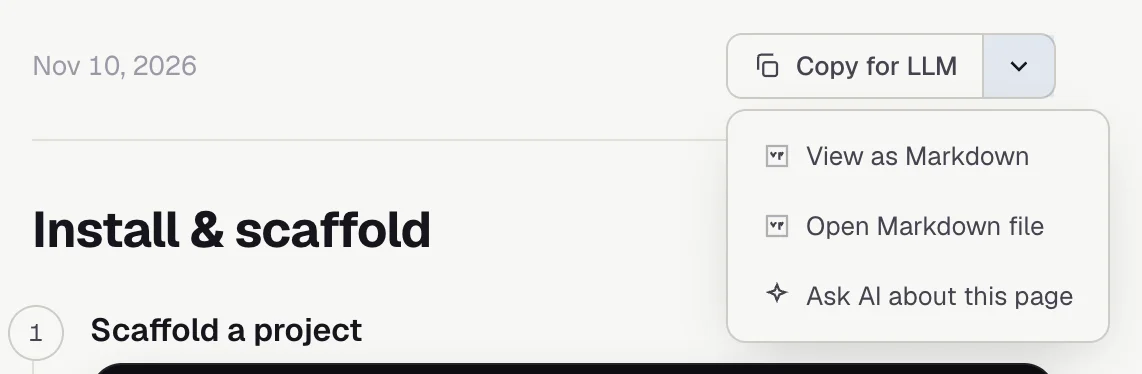
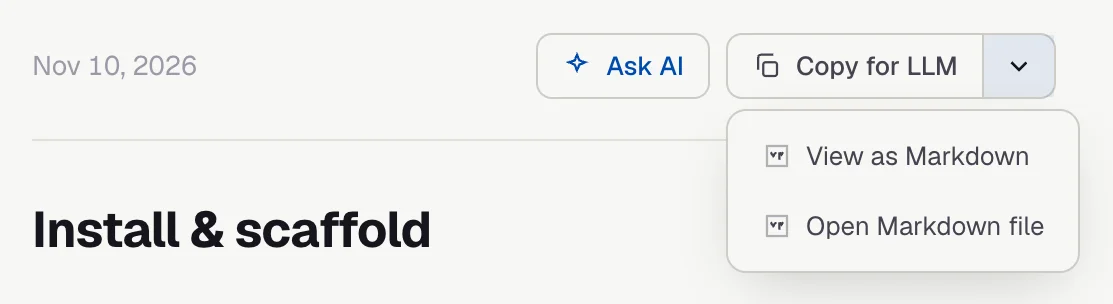
feat(docs): Ask AI is its own button in the menu page-actions style
With layout.pageActions: "menu", Ask AI sits beside Copy for LLM instead of
in its dropdown, which now holds only View as Markdown and Open Markdown file.
Without Ask AI set up, the row is unchanged. The menu screenshots and the
Page actions docs are updated.

diff --git a/components/docs/doc-actions.tsx b/components/docs/doc-actions.tsx
@@ -4,6 +4,7 @@ import { useEffect, useRef, useState } from "react";
 import { usePathname } from "next/navigation";
 import { pageToMarkdown as renderPage } from "@/lib/page-markdown";
 import { openAskPanel } from "./ai/ask-dock";
+import { menuLayout, type PageAction } from "./page-actions";
 
 /* ──────────────────────────────────────────────────────────────────────────
  * Docs page AI/affordance row (the design's .doc-ai): rendered below the lede.
@@ -17,7 +18,8 @@ import { openAskPanel } from "./ai/ask-dock";
  * page content (no fabricated text). The menu also links the .md file.
  *
  * `layout.pageActions: "menu"` shows them as one "Copy for LLM" button with
- * the others in a dropdown, beside the last-updated date.
+ * the Markdown ones in a dropdown, beside the last-updated date, and Ask AI as
+ * its own button.
  * ────────────────────────────────────────────────────────────────────────── */
 
 const SparkIcon = (
@@ -109,18 +111,26 @@ export function DocAiRow({
   };
 
   if (variant === "menu") {
+    const layout = menuLayout(aiEnabled);
+    const actions: Partial<Record<PageAction, MenuItem>> = {
+      view: { label: "View as Markdown", icon: MarkdownIcon, run: () => openMarkdownModal(markdown()) },
+      open: { label: "Open Markdown file", icon: MarkdownIcon, run: () => window.open(mdUrl, "_blank", "noopener") },
+    };
     return (
       <div className="doc-ai doc-ai--menu" onPointerEnter={prefetch} onFocus={prefetch}>
         <span className="date">{lastUpdated}</span>
-        <ActionMenu
-          copied={copied}
-          onCopy={copyForLlm}
-          items={[
-            { label: "View as Markdown", icon: MarkdownIcon, run: () => openMarkdownModal(markdown()) },
-            { label: "Open Markdown file", icon: MarkdownIcon, run: () => window.open(mdUrl, "_blank", "noopener") },
-            ...(aiEnabled ? [{ label: "Ask AI about this page", icon: SparkIcon, run: () => openAskPanel(title) }] : []),
-          ]}
-        />
+        <div className="doc-ai-actions">
+          {layout.buttons.includes("ask") && (
+            <button type="button" className="doc-ai-ask" aria-label="Ask AI about this page" onClick={() => openAskPanel(title)}>
+              {SparkIcon} Ask AI
+            </button>
+          )}
+          <ActionMenu
+            copied={copied}
+            onCopy={copyForLlm}
+            items={layout.menu.flatMap((a) => actions[a] ?? [])}
+          />
+        </div>
       </div>
     );
   }

diff --git a/app/docs.css b/app/docs.css
@@ -299,10 +299,15 @@
 .docs-shell .doc-ai .copied { color: var(--ok); }
 .docs-shell .doc-ai .ico { width: 15px; height: 15px; }
 
-/* layout.pageActions: "menu": date on the left, a split "Copy for LLM" button
-   on the right. */
+/* layout.pageActions: "menu": date on the left; on the right, Ask AI (when
+   it's set up) and a split "Copy for LLM" button. */
 .docs-shell .doc-ai--menu { justify-content: space-between; border-top: 0; padding-top: 0; margin-top: 24px; padding-bottom: 20px; border-bottom: 1px solid var(--line); }
 .docs-shell .doc-ai--menu .date { font-size: 13.5px; color: var(--ink-4); }
+.docs-shell .doc-ai-actions { display: flex; align-items: center; gap: 8px; margin-left: auto; }
+.docs-shell .doc-ai-actions > .doc-ai-ask {
+  padding: 7px 12px; border: 1px solid var(--line-2); border-radius: var(--btn-radius, 8px);
+  background: var(--panel); color: var(--accent-ink); font-weight: 500;
+}
 .docs-shell .doc-ai-split {
   position: relative; display: inline-flex; border: 1px solid var(--line-2); border-radius: var(--btn-radius, 8px);
   background: var(--panel);

diff --git a/test/doc-actions.test.ts b/test/doc-actions.test.ts
@@ -1,0 +1,17 @@
+import { test } from "node:test";
+import assert from "node:assert/strict";
+import { menuLayout } from "../components/docs/page-actions";
+
+// The page actions' "menu" style: Ask AI is a button of its own, not in the menu.
+
+test("with Ask AI set up, Ask AI is a button before Copy for LLM", () => {
+  assert.deepEqual(menuLayout(true).buttons, ["ask", "copy"]);
+});
+
+test("without Ask AI, Copy for LLM is the only button", () => {
+  assert.deepEqual(menuLayout(false).buttons, ["copy"]);
+});
+
+test("the menu holds only the Markdown actions", () => {
+  for (const ai of [true, false]) assert.deepEqual(menuLayout(ai).menu, ["view", "open"]);
+});

diff --git a/components/docs/page-actions.ts b/components/docs/page-actions.ts
@@ -1,0 +1,11 @@
+/* Which page actions the "menu" style (layout.pageActions: "menu") shows as
+ * buttons and which in its dropdown. Kept apart from doc-actions.tsx so it's
+ * unit-tested. */
+
+export type PageAction = "ask" | "copy" | "view" | "open";
+
+/** Ask AI (when it's set up) is a button of its own beside "Copy for LLM";
+ *  the dropdown holds only the Markdown actions. */
+export function menuLayout(aiEnabled: boolean): { buttons: PageAction[]; menu: PageAction[] } {
+  return { buttons: aiEnabled ? ["ask", "copy"] : ["copy"], menu: ["view", "open"] };
+}

diff --git a/CHANGELOG.md b/CHANGELOG.md
@@ -25,6 +25,9 @@ All notable changes to `@markline/markline` and `@markline/create`.
   largest resource page drops from 13.2 MB to 4.4 MB. Docs pages list API
   resources, not every operation, in their navigation data, unless the API tab
   also holds docs pages.
+- **Ask AI gets its own button in the menu style.** With
+  `layout.pageActions: "menu"`, Ask AI is its own button beside Copy for LLM,
+  and the menu holds only View as Markdown and Open Markdown file.
 
 ### Fixed
 - **The Markline home page shows only real numbers.** The GitHub card no longer
